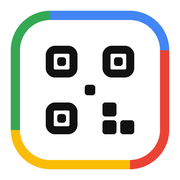
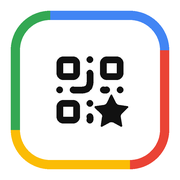
Add files via upload

diff --git a/src/components/icons.tsx b/src/components/icons.tsx
@@ -52,7 +52,8 @@ export function Logo({ className = "", dark = false }: { className?: string; dar
           <rect width="5" height="5" x="3" y="3" rx="1" />
           <rect width="5" height="5" x="16" y="3" rx="1" />
           <rect width="5" height="5" x="3" y="16" rx="1" />
-          <path d="M21 16h-3a2 2 0 0 0-2 2v3M21 21v.01M12 7v3a2 2 0 0 1-2 2H7M3 12h.01M12 3h.01M12 16v.01M16 12h1M21 12v.01M12 21v-1" />
+          <path d="M12 3h.01M12 7v3a2 2 0 0 1-2 2H7M3 12h.01M16 12h1M21 12v.01M12 16v.01M12 21v-1" />
+          <path d="M11.525 2.295a.53.53 0 0 1 .95 0l2.31 4.679a2.123 2.123 0 0 0 1.595 1.16l5.166.756a.53.53 0 0 1 .294.904l-3.736 3.638a2.123 2.123 0 0 0-.611 1.878l.882 5.14a.53.53 0 0 1-.771.56l-4.618-2.428a2.122 2.122 0 0 0-1.973 0L6.396 21.01a.53.53 0 0 1-.77-.56l.881-5.139a2.122 2.122 0 0 0-.611-1.879L2.16 9.795a.53.53 0 0 1 .294-.906l5.165-.755a2.122 2.122 0 0 0 1.597-1.16z" transform="translate(12.4 12.4) scale(.5)" fill="#111" stroke="none" />
         </g>
       </svg>
       <span className={`text-lg font-bold tracking-tight ${dark ? "text-white" : "text-slate-900"}`}>ReviewQR</span>
